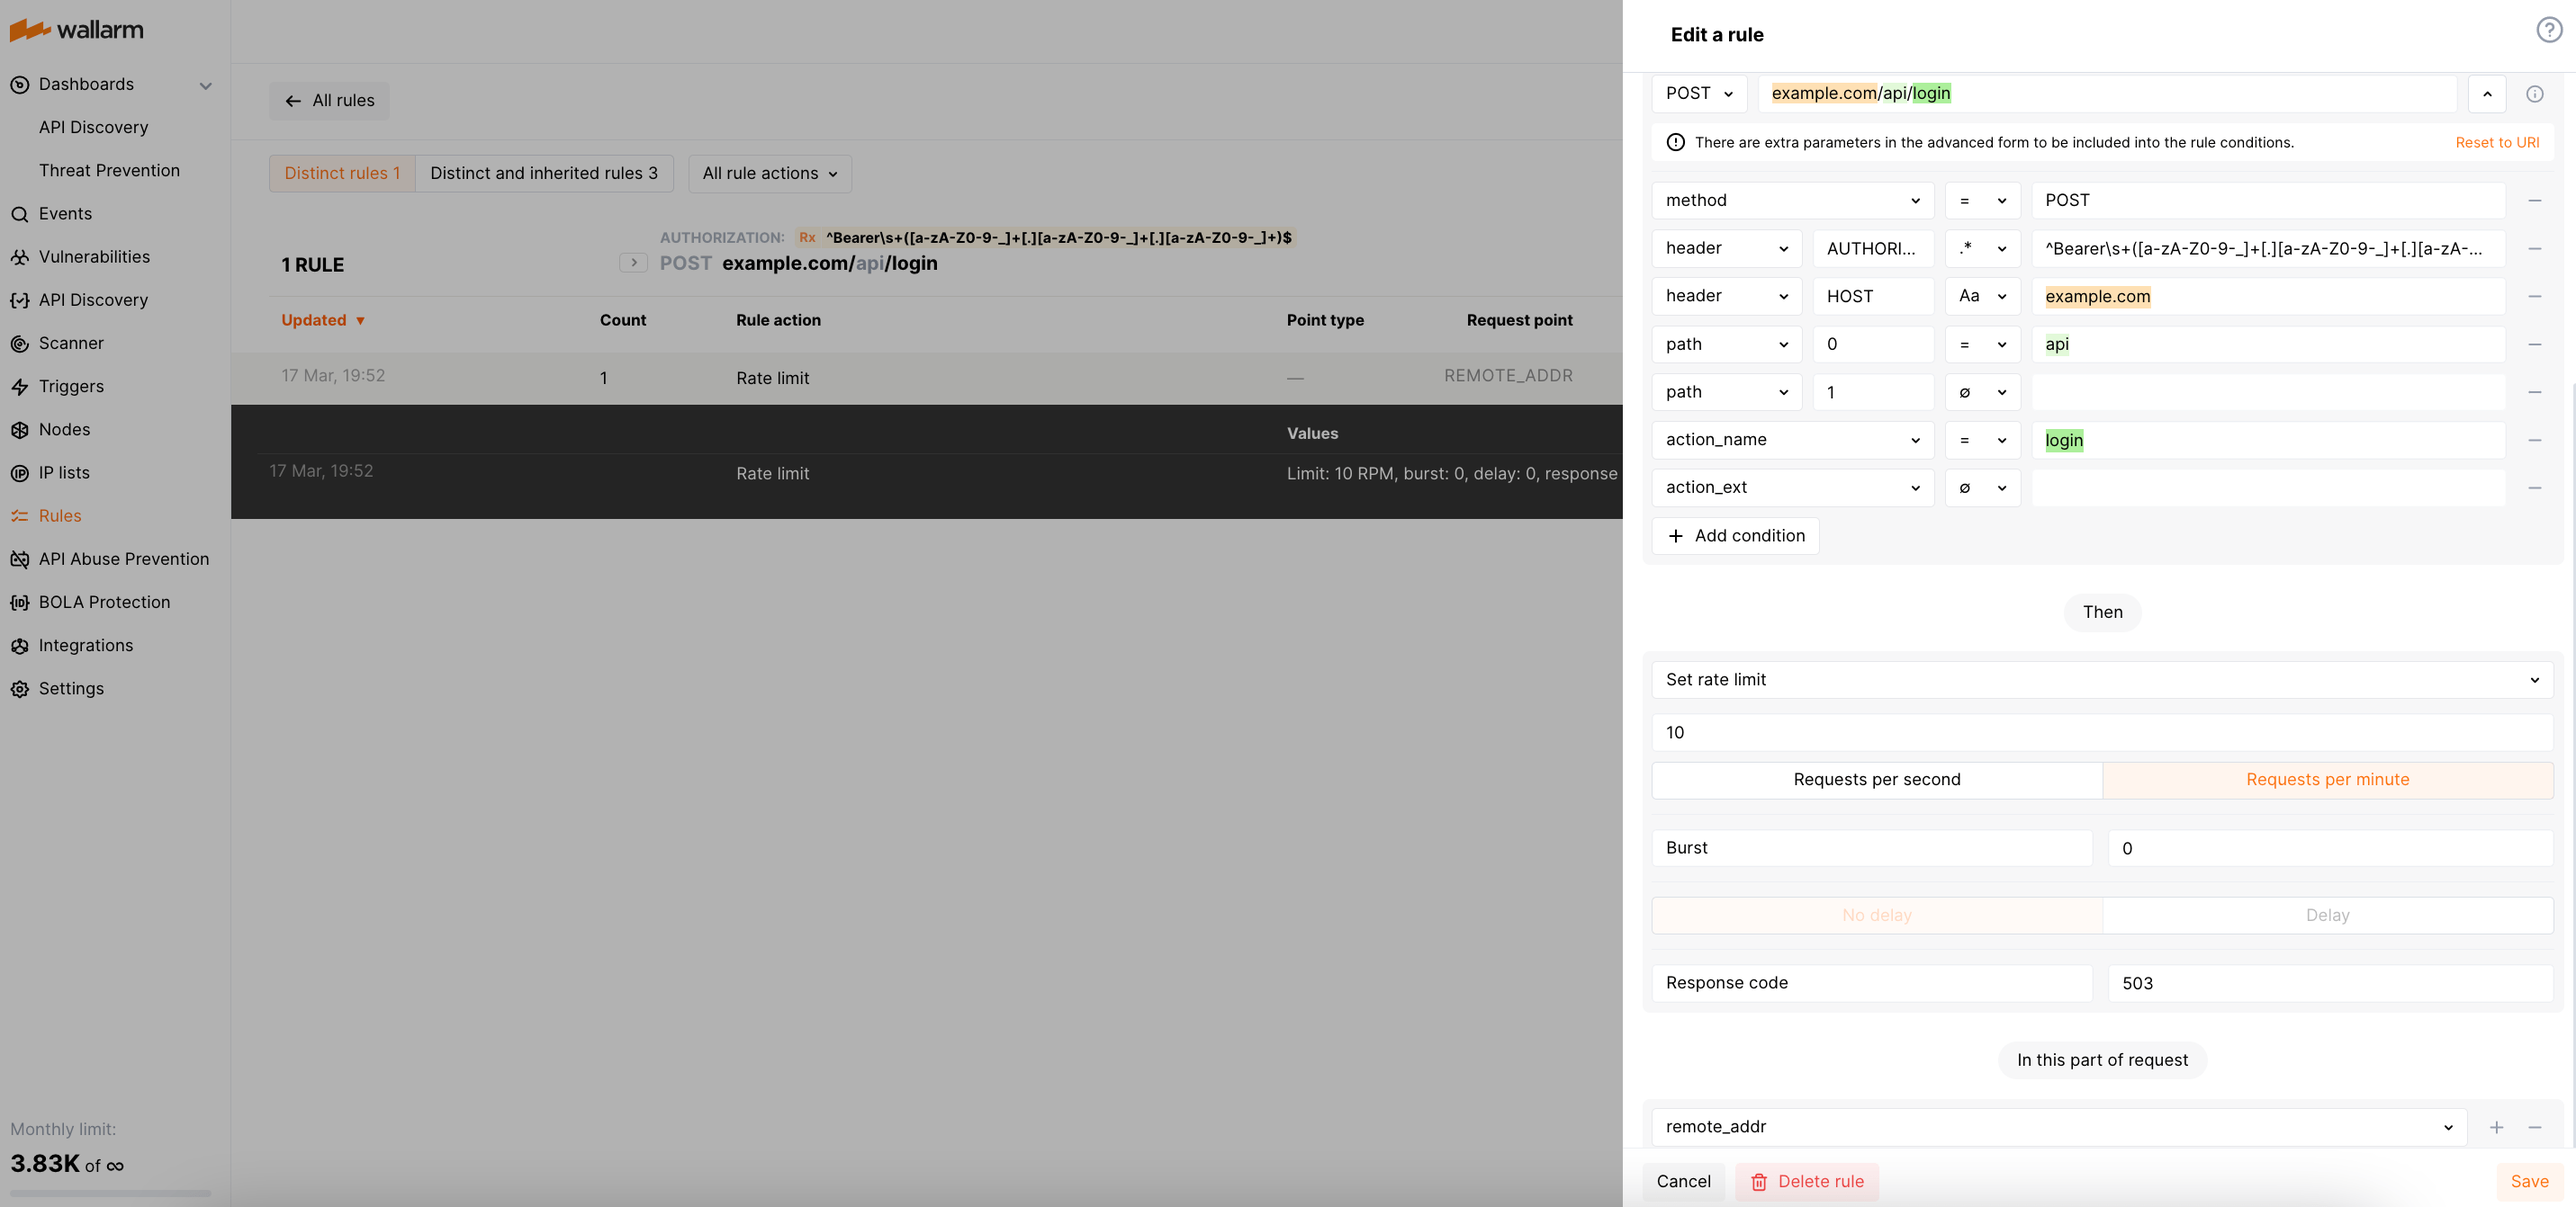
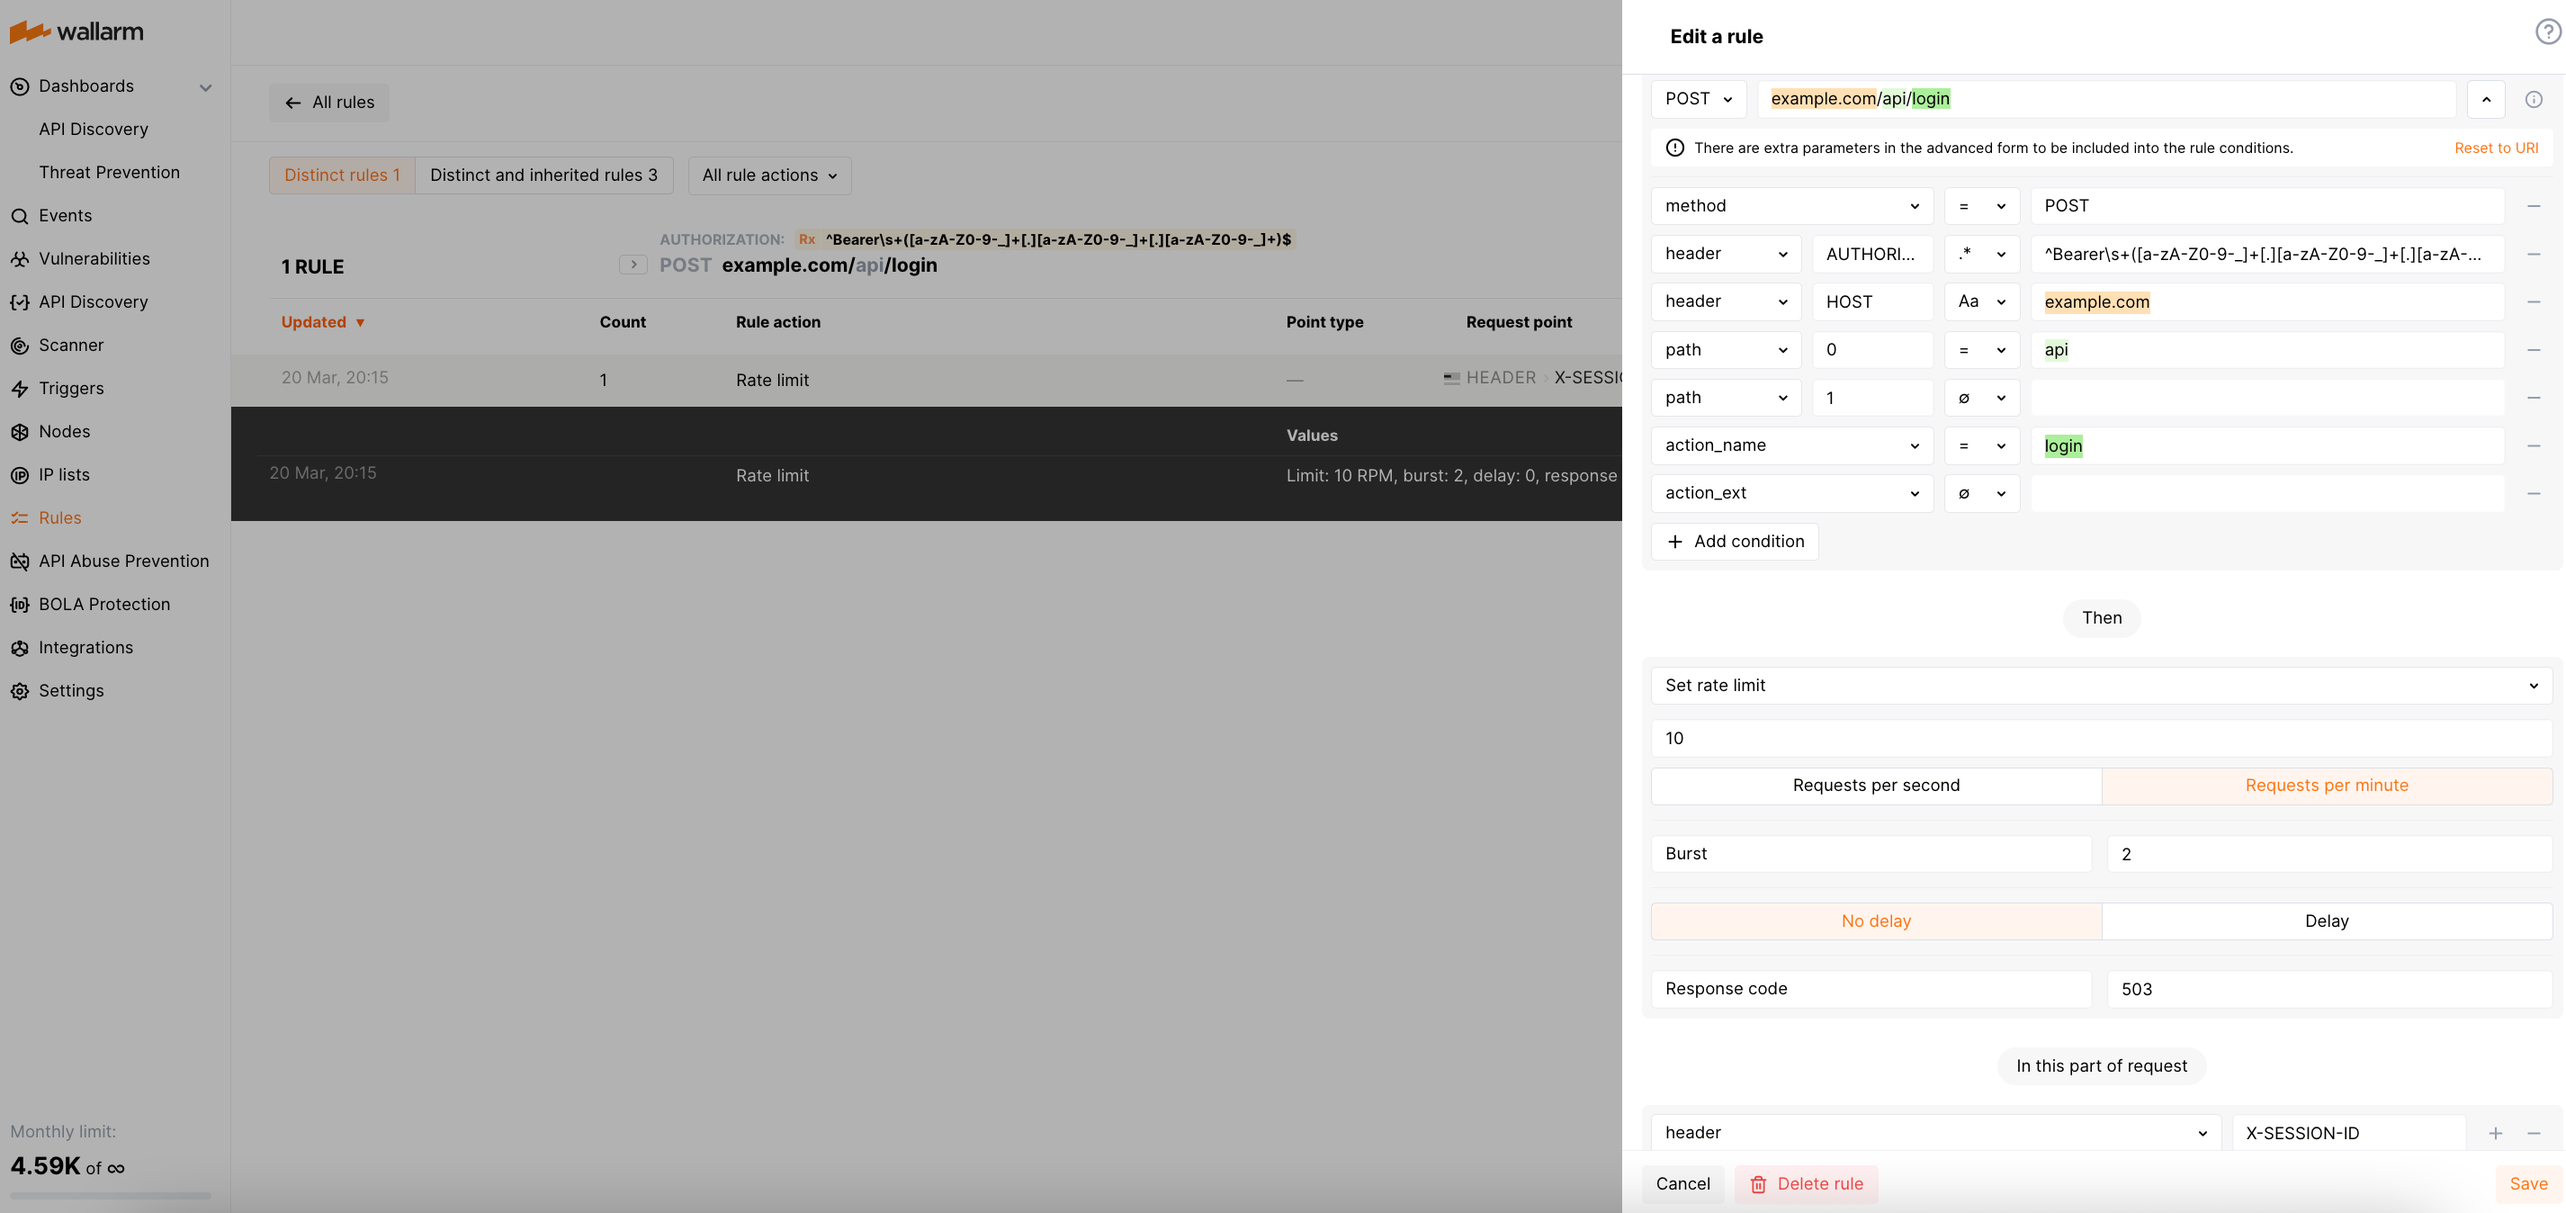
DOCS-1801 add rate limit example for x-session-id

diff --git a/docs/latest/user-guides/rules/rate-limiting.md b/docs/latest/user-guides/rules/rate-limiting.md
@@ -35,15 +35,15 @@ Limiting connections to the endpoint helps to prevent such attacks. You can limi
 
 ![!Example](../../images/user-guides/rules/rate-limit-for-200-users.png)
 
-### Limiting IP connections to prevent brute force attacks on auth parameters
+### Limiting connections by sessions to prevent brute force attacks on auth parameters
 
-By applying rate limiting to requests from the same IP address, you can also restrict brute force attempts to find real JWTs or other authentication parameters in order to gain unauthorized access to protected resources. For example, if rate limit is set to allow only 10 requests per minute from a particular IP address, an attacker who is attempting to discover a valid JWT by making multiple requests with different token values will quickly hit the rate limit, and their requests will be rejected until the rate limit period expires.
+By applying rate limiting to user sessions, you can restrict brute force attempts to find real JWTs or other authentication parameters in order to gain unauthorized access to protected resources. For example, if rate limit is set to allow only 10 requests per minute under a session, an attacker attempting to discover a valid JWT by making multiple requests with different token values will quickly hit the rate limit, and their requests will be rejected until the rate limit period expires.
 
-Suppose a web application with an API endpoint at the URL `https://example.com/api/login` accepts POST requests that include a Bearer JWT in the `Authorization` request header. For this scenario, the rule limiting connections per IP will appear as follows:
+Suppose your application assigns each user session with a unique ID and reflects it in the `X-SESSION-ID` header. The API endpoint at the URL `https://example.com/api/login` accepts POST requests that include a Bearer JWT in the `Authorization` header. For this scenario, the rule limiting connections by sessions will appear as follows:
 
 ![!Example](../../images/user-guides/rules/rate-limit-for-jwt.png)
 
-The [regexp] used for the `Authorization` value is ``^Bearer\s+([a-zA-Z0-9-_]+[.][a-zA-Z0-9-_]+[.][a-zA-Z0-9-_]+)$`.
+The [regexp](add-rule.md#condition-type-regex) used for the `Authorization` value is ``^Bearer\s+([a-zA-Z0-9-_]+[.][a-zA-Z0-9-_]+[.][a-zA-Z0-9-_]+)$`.
 
 If your authentication mechanism mandates users to pass the token in a different header, you can modify the rule as needed.
 
